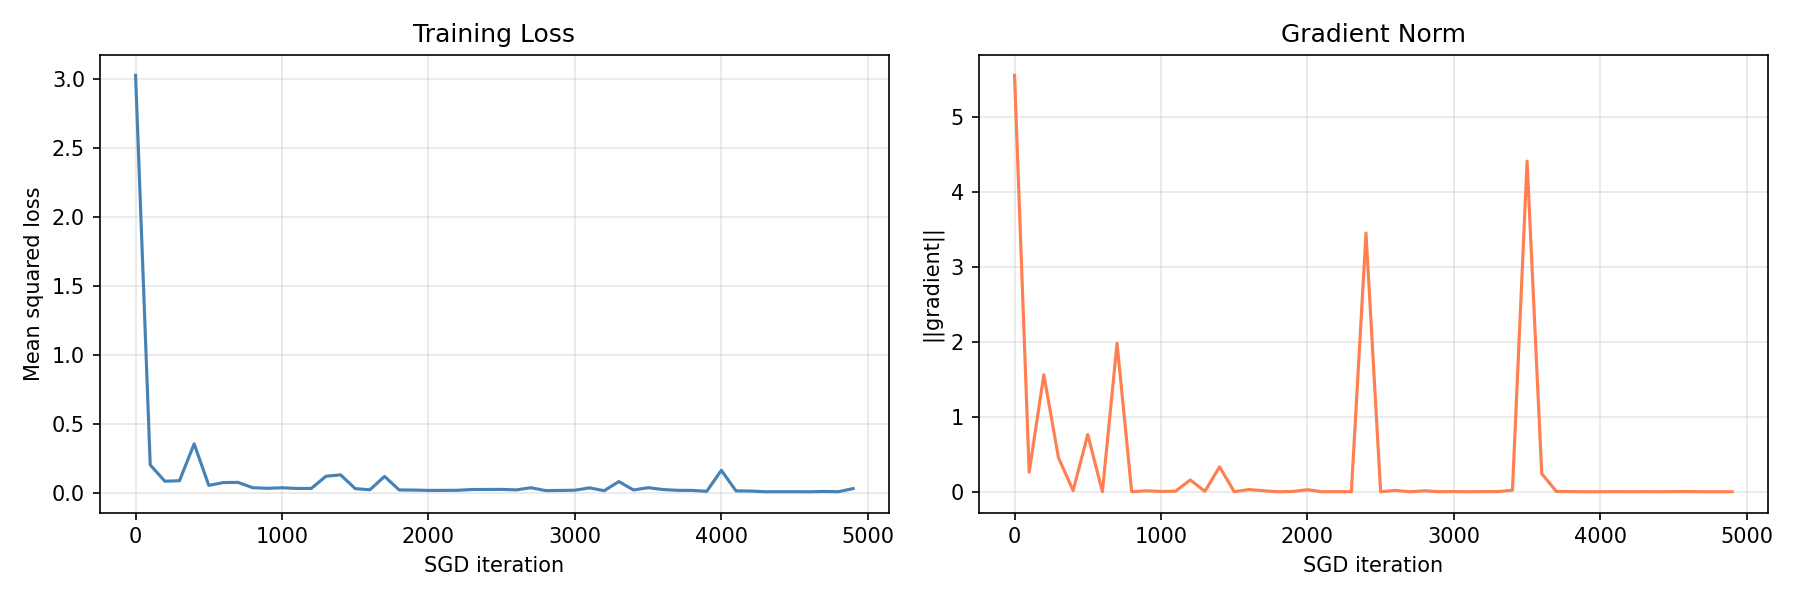
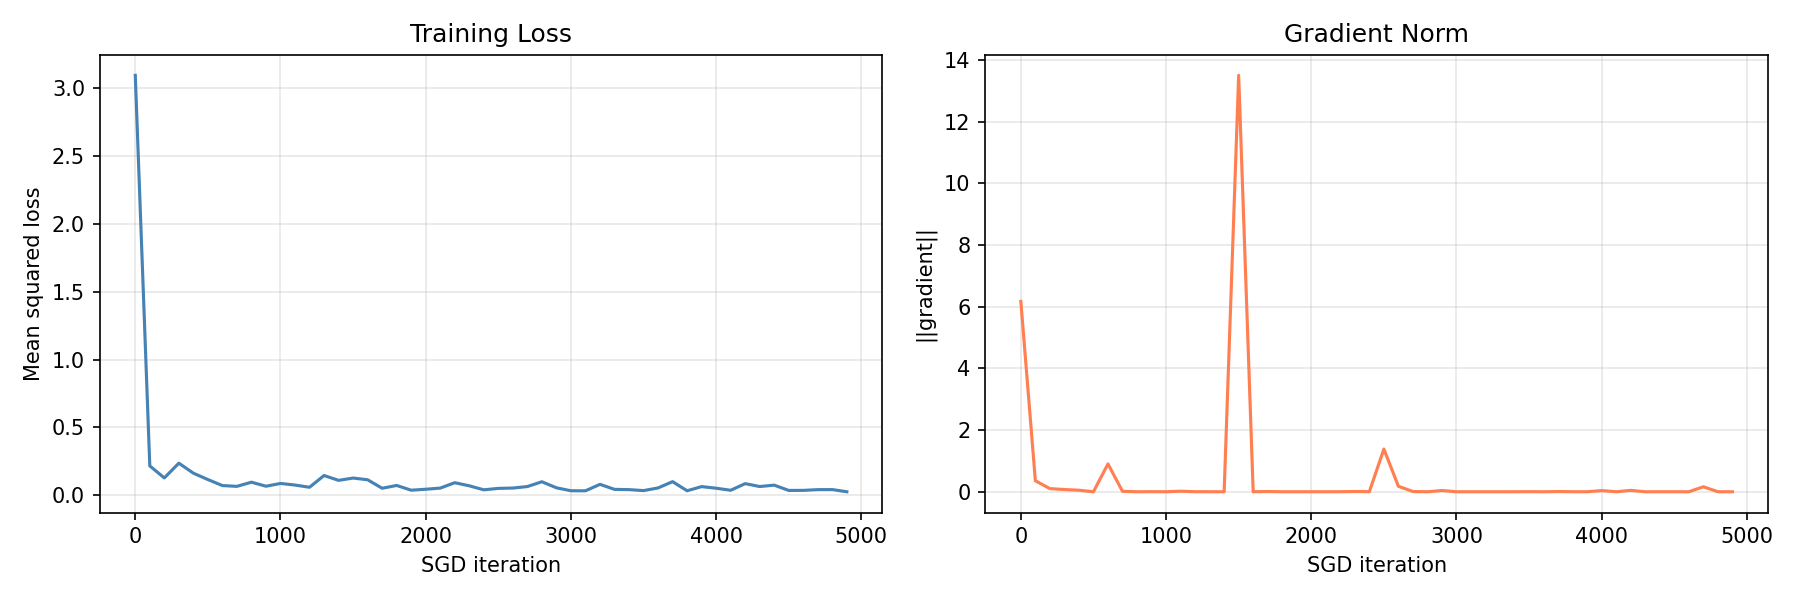
Final Commit with added hidden layer neurons

diff --git a/functions.py b/functions.py
@@ -4,7 +4,7 @@ from scipy.optimize import approx_fprime
 
 # neural network dimensions
 n0 = 4 # number of features = input layer
-n1 = 8 # middle layer
+n1 = 20 # middle layer
 n2 = 3 # number of labels = output layer
 
 # changing vector of weights into matrices

diff --git a/README.md b/README.md
@@ -1,0 +1,68 @@
+# 🐧 Penguin Species Classifier — Neural Network from Scratch
+
+A feedforward neural network built with NumPy to classify penguin species (Adelie, Gentoo, Chinstrap) using the Palmer Penguins dataset.
+
+## Overview
+
+This project implements a two-layer neural network trained with stochastic gradient descent (SGD) and numerical gradient approximation via `scipy.optimize.approx_fprime`. No deep learning frameworks — just NumPy.
+
+## Project Structure
+
+```
+.
+├── penguin_nn.py      # Main script: data loading, training, evaluation, plotting
+├── functions.py       # Neural network logic: forward pass, loss, SGD loop, predict
+├── penguin-data.json  # Dataset (Palmer Penguins)
+├── requirements.txt
+└── training_curves.png
+```
+
+## Model Architecture
+
+```
+Input (4) → Hidden (20, tanh) → Output (3, tanh)
+```
+
+| Layer | Size | Activation |
+|-------|------|------------|
+| Input | 4 features | — |
+| Hidden | 20 neurons | tanh |
+| Output | 3 classes | tanh |
+
+**Total parameters:** 67 (32 + 8 + 24 + 3)
+
+## Features
+
+- **4 input features:** bill length, bill depth, flipper length, body mass
+- **3 output classes:** Adelie, Gentoo, Chinstrap
+- **Label encoding:** one-hot style with ±1 targets, e.g. Adelie → `[1, -1, -1]`
+- **Loss function:** mean squared error
+- **Optimizer:** SGD with numerical gradient (step size `1e-6`)
+- **Data split:** 90% train / 10% test, randomly shuffled
+
+## Results
+
+Trained for 5000 iterations with learning rate `0.05`:
+
+| Class | Accuracy | Samples |
+|-------|----------|---------|
+| Adelie | 100.0% | 13 |
+| Gentoo | 100.0% | 16 |
+| Chinstrap | 100.0% | 6 |
+| **Overall** | **100%** | **35** |
+
+### Training Curves
+
+![Training curves](training_curves.png)
+
+## Usage
+
+**Install dependencies:**
+```bash
+pip install -r requirements.txt
+```
+
+**Run:**
+```bash
+python penguin_nn.py
+```